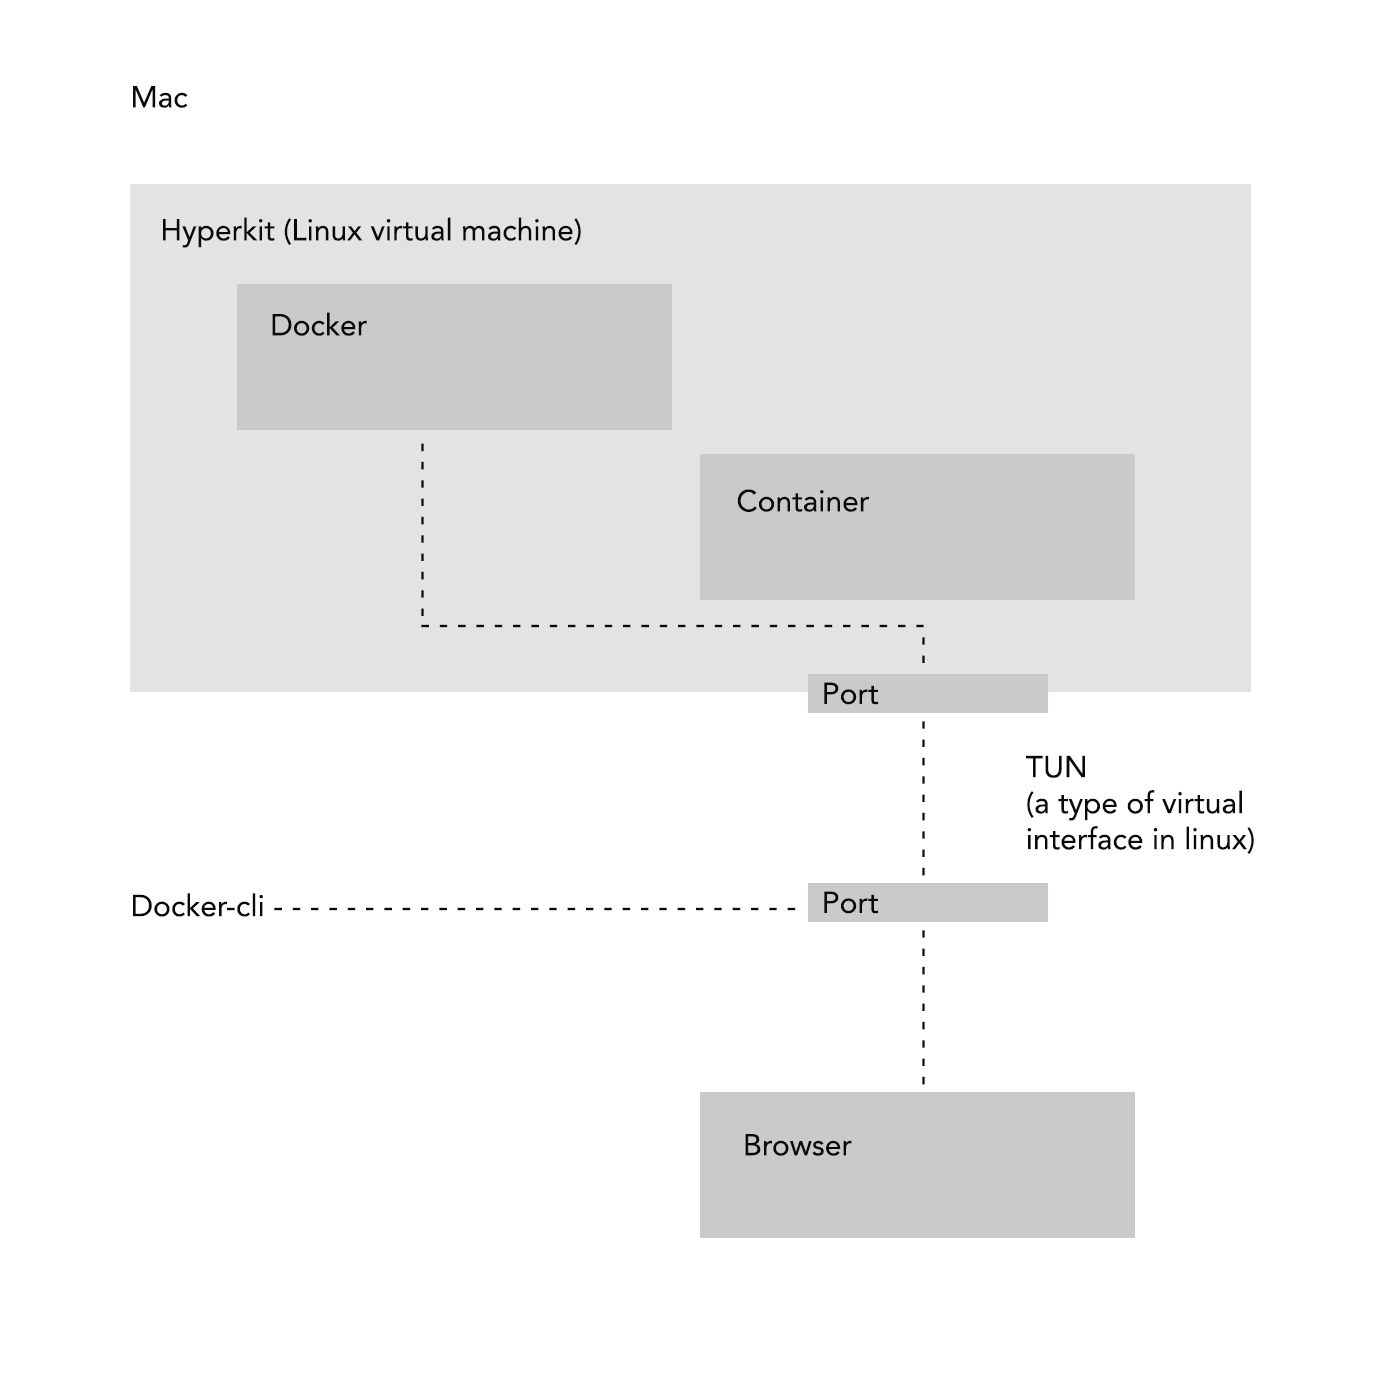
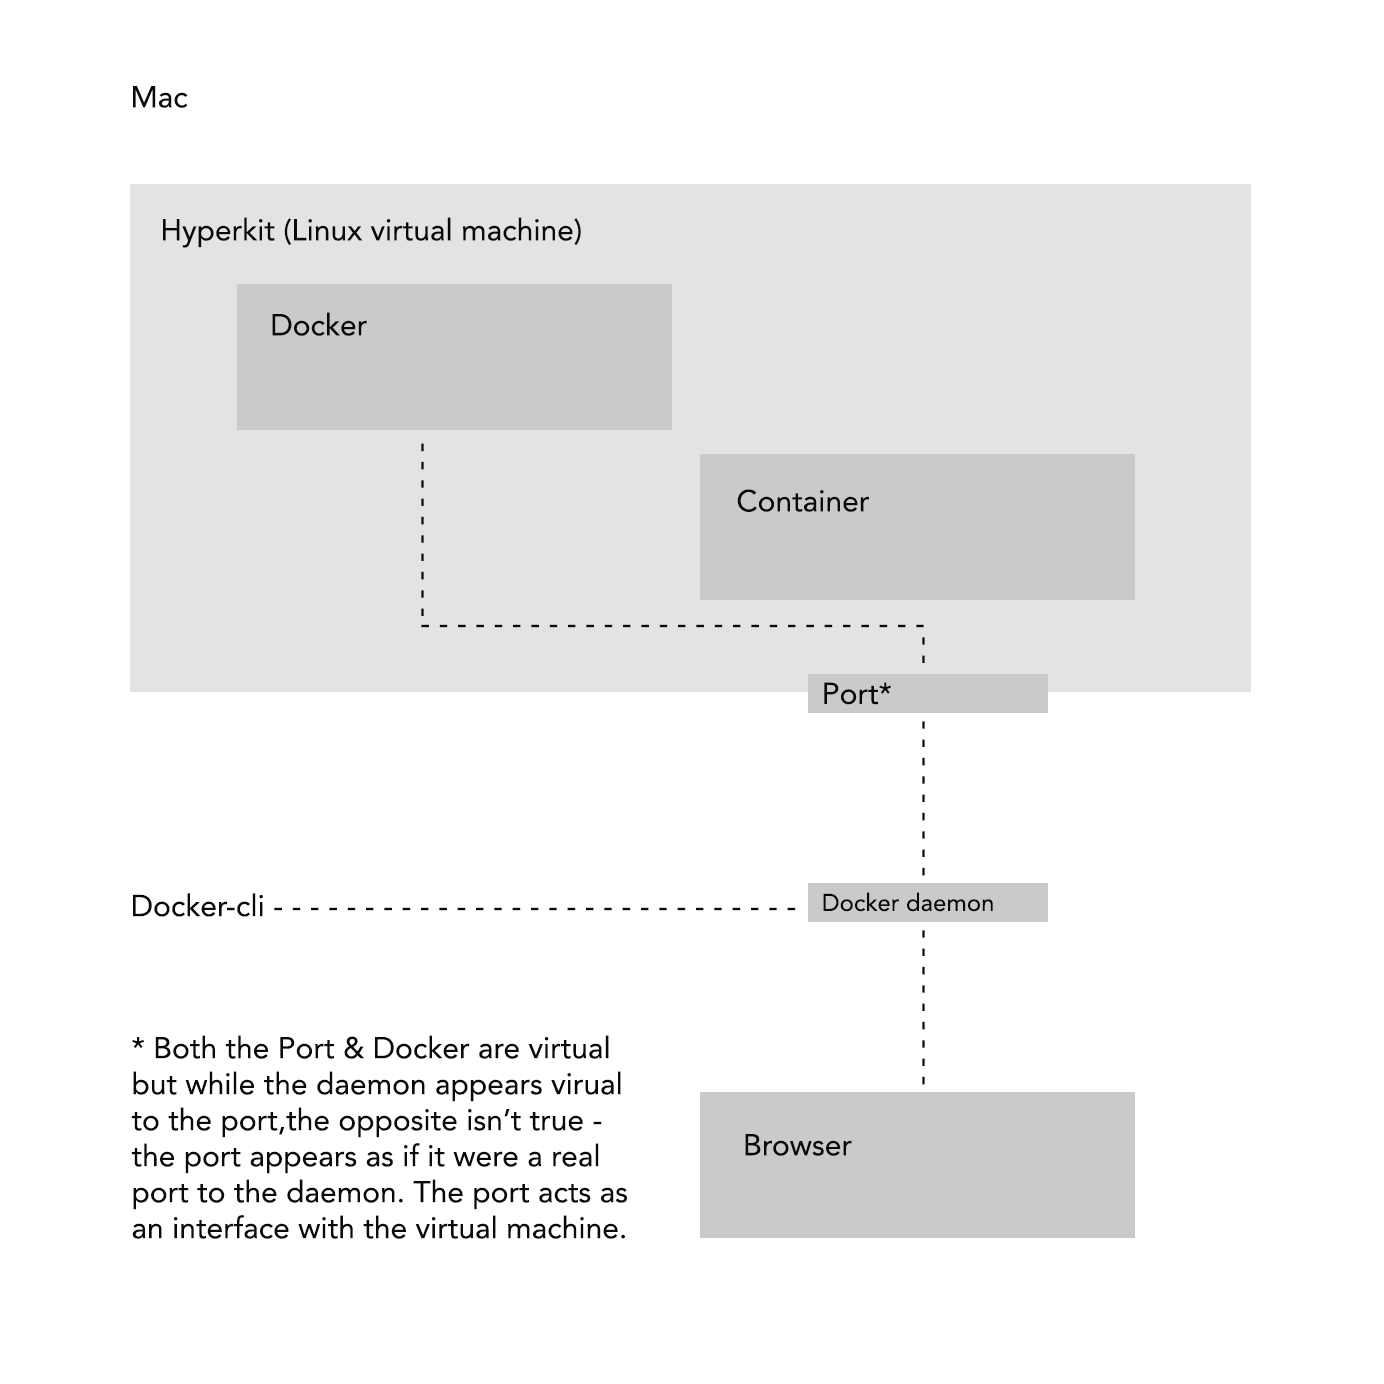
update docker

Changed region(s): [[0.0932, 0.7457, 0.466, 0.901], [0.7457, 0.5282, 0.901, 0.6214], [0.5903, 0.6525, 0.6835, 0.6835]]

diff --git a/site/content/quicktips/2018-03-15Docker.md b/site/content/quicktips/2018-03-15Docker.md
@@ -18,7 +18,7 @@ Containers are not a new idea in the programing world, but when I first encounte
 ## Some Context
 My first steps using <a href="https://www.docker.com" target="_blank">Docker</a> had me feeling like I was writing something similar to the <a href=“https://en.wikipedia.org/wiki/Pseudocode” target="_blank">pseudo code</a> I sometimes use to hash out ideas. Wich is kind of cool because that means it felt familiar, inviting, unintimidating even. But pseudo code can also kind of feel abstract if you're not sure what's happening under the hood. I quickly realised that I needed a refresher in all things networking to really be able to use Docker to it’s full potential. This is especially true if you’re using Docker on a Mac.
 
-Docker plays most friendly with Linux systems because it was conceived for linux systems first and foremost, and requires a virtual machine (vm) to run on a Mac (which feels pretty ironic conisdering once of the main arguments for Docker being so great is that it's so much lighter and faster than a vm... but anyways...) So when you install <a href="https://docs.docker.com/docker-for-mac/" target="_blank">docker-for-mac</a> on your system keep in mind that any `ports` you expose in your `Dockerfile` will have to be pointed to ports outside the vm in order to render anything into the browser. Hold on to that thought, because we’ll come back to it in a minute.
+Docker plays most friendly with Linux systems because it was conceived for linux systems first and foremost, and requires a virtual machine (vm) to run on a Mac (which feels pretty ironic conisdering once of the main arguments for Docker being so great is that it's so much lighter and faster than a vm... but anyways...) So when you install <a href="https://docs.docker.com/docker-for-mac/" target="_blank">docker-for-mac</a> on your system keep in mind that any `ports` you expose in your `Dockerfile` will have to be mapped to ports outside the vm in order to render anything into the browser. Hold on to that thought, because we’ll come back to it in a minute.
 
 ### Images
 
@@ -52,7 +52,7 @@ CMD /entrypoint.sh
 yarn
 gatsby develop --host 0.0.0.0 --port 8888
 ```
-#### N.B. - This image is for a development workflow, so I created a bash file to be able to run yarn dynamically when I start up my docker container. When the image is production ready, this step wouldn't be needed.
+#### N.B. - This image is for a development workflow, so I created a bash file to be able to run yarn dynamically when I start up my docker container. This is so that Gatsby doesn’t run until all the files are on the file system via the bind mount, which I'll explain in a second. But just keep in mind that when the image is production ready, this step wouldn't be needed. 
 
 ### Containers:
 
@@ -62,7 +62,9 @@ Above I showed you how to create an `image` based on local project files. In my 
 
 ### Volumes
 
-Enter `volumes`, which are directories specifically designed to allow your changes to be taken into account by the container (or say, if you needed some data to persist through any future containers you might start/stop, but we’ll come back to this…)
+Enter `volumes`, which are directories specifically designed to allow your changes to be taken into account by the container (or say, if you needed some data to persist through any future containers you might start/stop, but we’ll come back to this…) 
+
+There are two types of volumes - bind mounts, Docker's anonymous volumes, and named mounts, Docker volumes that you create manually and assign yourself. In the case of my Gatsby project, we'll use a bind mount to run things from the command line.
 
 ## Piecing it all together:
 
@@ -82,8 +84,8 @@ docker run -d --name gatsbystory -p 8888:8888  -v $(pwd)/gatsby:/var/www/html  g
 
 - - `-d` is a tag that gets things running in the background so you can still work in your terminal
 - - We're `--name`-ing the container __gatsbystory__ 
-- - The `-p` tag forwards the `port` defined on the right to the one on the left, which kind of feels backwards, right? But __HOST_PORT:CLIENT_PORT__. In this case they're both the same but IRL you can change the port on the left to whatever you want. The command basically makes whatever is running on __port 8888__ (the port that u exposed in your initial Docker image, remember) accessible by __localhost:8888__ in the browser. On a linux machine you wouldn’t need to explicitly tell docker where to look. This is entirely because of how Docker works from within a vm on a Mac.
-- - `-v` attaches an anonymous `volume` to your local project folder (in this case, __gatsby__) and sends any changes made to that folder to the destination path on the server being run in your docker instance.
+- - The `-p` tag maps the `port` defined on the right to the one on the left, which kind of feels backwards, right? But __HOST_PORT:CONTAINER_PORT__. In this case they're both the same but IRL you can change the port on the left to whatever you want. The command basically makes whatever is running on __port 8888__ (the port that u exposed in your initial Docker image, remember) accessible by __localhost:8888__ in the browser. On a linux machine you wouldn’t need to explicitly tell docker where to look. This is entirely because of how Docker works from within a vm on a Mac.
+- - `-v` attaches an anonymous `volume` to your local project folder (in this case, __gatsby__) and sends any changes made to that folder to the destination path on the server being run in your docker instance... well, sort of. Actually, from the pov of the kernel,  the bind mount is the same bunch of files - so it's sort of like being in <a hre="https://www.youtube.com/watch?v=OMlYpH1lOYg">two places at once</a>. (Yes I did just make that reference. #2000s)
 
 When you run this command, you'll have a working instance, and thanks to the volume you set up, any changes you make while developing will be taken into account directly in the browser. Great! 
 
@@ -91,11 +93,10 @@ But if each service goes into a seperate container... how do you make containers
 
 ## Docker-compose
 
-Docker really clicked for me when I started using <a href="https://docs.docker.com/compose/overview/" target="_blank">docker-compose</a>, which is basically like a Dockerfile that sits on top of a bunch of Dockerfiles (or rather, the images they describe...) telling them how to play nice with each other.
-
+Docker really clicked for me when I started using <a href="https://docs.docker.com/compose/overview/" target="_blank">docker-compose</a>, which feels like a Dockerfile that sits on top of a bunch of Dockerfiles (or rather, the images they describe...) telling them how to play nice with each other. (The more technical way of saying this would be that Docker runs at build time, whereas Docker-compose runs at run time.) 
 In our case the local Gatsby project already has it's image. Instead of writing two more images, I'm going to pull some pre-made ones from <a href="https://hub.docker.com/" target="_blank">docker hub</a> for the cms and database I want to hook up to my project. (__Hint:__ official project images > random user uploaded images, as they are most trustworthy.) 
 
-We could tediously run each image from the terminal using commands similar to the one outlined above, but docker-compose exists so that we don't have to. Instead we can create a `docker-compose.yaml` file in the same place as your initial Gatsbyjs Docker file, to get things running from a single source. All that's left to do after that is run 
+We could tediously run each image from the terminal using commands similar to the one outlined above, but docker-compose exists so that we don't have to. Instead we can create a `docker-compose.yml` file in the same place as your initial Gatsbyjs Docker file, to get things running from a single source. All that's left to do after that is run 
 
 ```JSON
 docker-compose up
@@ -107,11 +108,11 @@ In this example we’ll be hooking up an image of a gatsby project, with a cms c
 First thing, set your `version` of docker compose (I'm using __v 3__)
 
 ```javascript
-//docker-compose.yaml
+//docker-compose.yml
 version: '3'
 ```
 Next, list out the various `services` that you’ll be using. Services are run via images. So each service runs an image that creates a container. I named them `db`, `cms` and `web` but you can call your services whatever you want. Since my Gatsbyjs project is running from a local development image, and our docker-compose.yml file is in the same location, I include `build .` instead of pointing to a pre-made image.
-Don't forget to define the ports you want to expose so things load properly in the browser. 
+Don't forget to define the ports you want to map so things load properly in the browser. 
 
 __N.B since we aren't accessing the datbase directly, but instead via our cms, that particular port with be set later on, using cockpits environment varialbes.__ 
 
@@ -169,7 +170,7 @@ volume list
 then add it to your `docker-compose.yml`
 
 ```javascript
-//docker-compose.yaml
+//docker-compose.yml
 version: '3'
 services:
   db:
@@ -192,7 +193,7 @@ volumes:
 Within each service (__db__, __cms__, __web__) add the network they will be communicating through.
 
 ```javascript
-//docker-compose.yaml
+//docker-compose.yml
 version: '3'
 services:
   db:
@@ -221,7 +222,7 @@ volumes:
 In your __db service__, connect the volume you created to the database path (this set up info is usually explained on docker hub, so it can be different if you’re using a different image, but this is how it works with Cockpit.)
 
 ```javascript
-//docker-compose.yaml
+//docker-compose.yml
 version: '3'
 services:
   db:
@@ -252,7 +253,7 @@ volumes:
 Netxt, configure the environment variables of the service that is dependant on the database (our cms, cockpit) and point it to the database (again, these details should be specified on docker hub or in the docs… in the case of cockpit, a bit of digging needed to be done. Hat tip to <a href="https://twitter.com/_superseed" target="_blank">@superspeed</a>, who helped me find this info, and who also repeatedly hashed out Docker's more confusing parts with me 🙏🙏.) As mentioned earlier, this is where you'll the cms to the database server, in this case the __COCKPIT_DATABASE_SERVER__
 
 ```javascript
-//docker-compose.yaml
+//docker-compose.yml
 version: '3'
 services:
   db:
@@ -287,7 +288,7 @@ volumes:
   mongo-vol: null
 ```
 
-__Tip:__ Send your yaml file through a linter and save yourself some weird error messages. Once you're cleared, you're good to go! Run 
+__Tip:__ Send your .yml file through a linter and save yourself some weird error messages. Once you're cleared, you're good to go! Run 
 
 ```JSON
 docker-compose up
@@ -307,10 +308,12 @@ docker-compose up
 - - __Docker volume list__ (list out volumes)
 
 #### Exposing ports
-As I said above, on a mac, Docker needs to reach outside it's vm so that when your containers run their various servers, the urls can be redirected to the exposed ports. Here's how it works under the hood on a mac, and how the VM on your mac works with docker.
+As I said above, on a mac, Docker needs to reach outside it's vm so that when your containers run their various servers, the urls can be redirected to the exposed ports. Here's how it works under the hood on a mac, and how the VM on your mac works with Docker.
 
 ##### Docker for Mac
 <img src="/images/DockerMac.png">
 
 #### Linux Virtual Machine
 <img src="/images/DockerLinux.png">
+
+Containers can be represented as boxes that interface with the 'outside' via ports. These interfaces each have IP addresses, and the containers open ports for the apps inside to access the outside. Containers can be bridged together, and the docker daemon maps those open container ports to the outside world, the 'real ports' illustrated in the first diagram. This makes the containers accessible through localhost (or the host’s IP address) instead of just the container IP/port.
